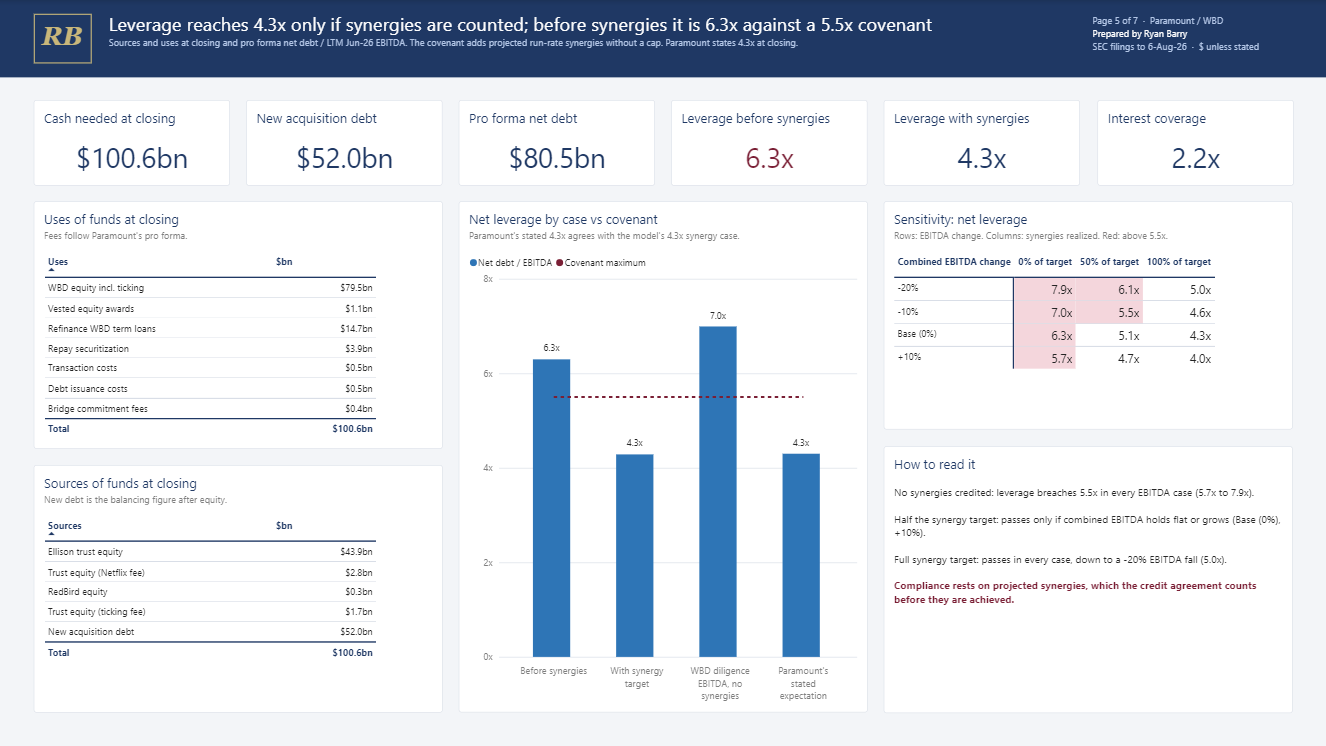
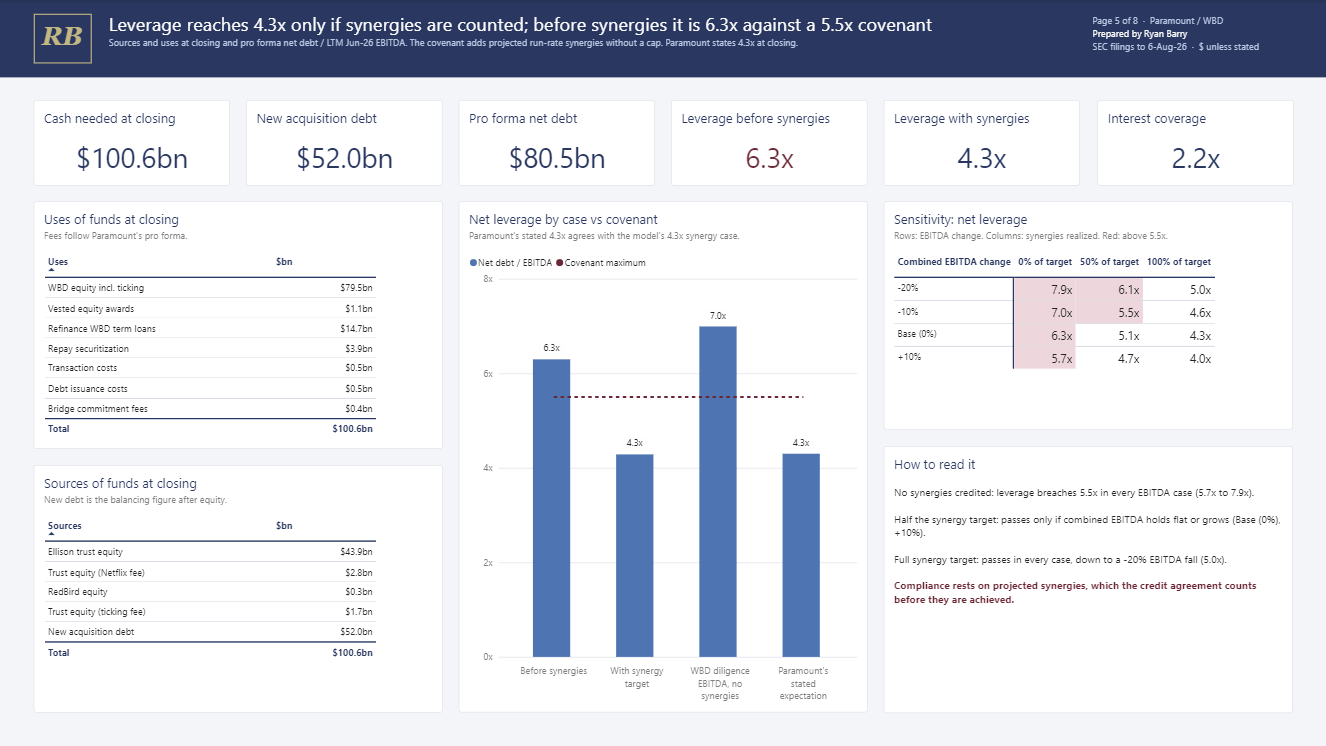
Paramount: post-close true-up, page 8 screenshot, updated databook counts

diff --git a/src/data/projects.ts b/src/data/projects.ts
@@ -19,6 +19,21 @@ export interface Project {
   download?: { href: string; label: string };
   github?: string;
   note?: string;
+  discrepancies?: Discrepancies;
+  sources?: { group: string; items: { cite: string; use: string; links?: { label: string; href: string }[] }[] }[];
+}
+
+export interface Discrepancies {
+  title: string;
+  intro: string;
+  table: {
+    caption: string;
+    head: string[];
+    rows: string[][];
+    foot: string[];
+  };
+  witnesses: { caption: string; items: { source: string; finding: string }[] };
+  items: { head: string; body: string }[];
 }
 
 export const projects: Project[] = [
@@ -60,8 +75,9 @@ export const projects: Project[] = [
     ],
     built: [
       'Alteryx workflow extracts 436 line items from both companies’ SEC filings and reconciles them in 60 checks.',
-      'Excel databook: 18 tabs, 882 formulas, 37 checks, all passing. Deal math, quality of earnings, net debt, purchase price allocation, leverage and the networks analysis, every number tagged to its filing.',
-      'Seven-page Power BI story, executive summary first.',
+      'Excel databook: 19 tabs, 1,166 formulas, 49 checks, all passing. Deal math, quality of earnings, net debt, purchase price allocation, leverage and the networks analysis, every number tagged to its filing.',
+      'Eight-page Power BI story, executive summary first.',
+      'After the deal closed on 6-Oct-26, a second Alteryx workflow and a new databook tab trued the model up to the closing filings: 11 of 11 tie-outs pass, net debt came within 2% of the model, and all three red flags still stand.',
       'One-page advisor memo to Paramount’s board; a build script checks every number in it against the databook.',
     ],
     tools: ['Alteryx', 'Excel', 'Power BI', 'Python', 'SEC EDGAR'],
@@ -71,12 +87,13 @@ export const projects: Project[] = [
       { src: '/projects/paramount/page2.png', caption: 'The deal: bidding history, bankers’ valuation ranges, equity value to enterprise value' },
       { src: '/projects/paramount/page5.png', caption: 'Can they afford it: sources and uses, leverage by case, covenant sensitivity' },
       { src: '/projects/paramount/page7.png', caption: 'Sell the networks? Keep vs. sell by date, break-even price' },
+      { src: '/projects/paramount/page8.png', caption: 'After closing: pre-closing estimates vs the closing filings' },
       { src: '/projects/paramount/page3.png', caption: 'What Paramount is buying' },
       { src: '/projects/paramount/page4.png', caption: 'Where the money goes' },
       { src: '/projects/paramount/page6.png', caption: 'Findings and basis of preparation' },
     ],
     download: { href: '/projects/paramount/Paramount_WBD_Advisor_Memo.pdf', label: 'Read the one-page advisor memo (PDF)' },
-    note: 'Public SEC filings through 6 August 2026. Synergies are Paramount’s stated $6bn target, a forecast that can’t be verified from public filings.',
+    note: 'Public SEC filings through 6 August 2026; closing filings through 13 October 2026. Synergies are Paramount’s stated $6bn target, a forecast that can’t be verified from public filings.',
   },
   {
     slug: 'hamilton',
@@ -131,5 +148,127 @@ export const projects: Project[] = [
     download: { href: '/projects/hamilton/Hamilton_Debt_Assumption_Report.pdf', label: 'Read the eight-schedule report (PDF)' },
     github: 'https://github.com/josephrbarry/hamilton-debt-assumption',
     note: 'Dollars shown in 1790 dollars; the report also shows 2025 dollars at 36.3x CPI.',
+    discrepancies: {
+      title: 'What didn’t add up',
+      intro:
+        'There was no dataset for this project. I transcribed every table from the original documents and footed it against the total the document prints before running any analysis. Most tables tied. One didn’t, and tracing why turned into half the project.',
+      table: {
+        caption:
+          'Enclosure D, Statement of Subscriptions, Treasury Department, 25 January 1792. Each row has to satisfy quota − subscribed = unsubscribed. Three cells don’t.',
+        head: ['State', 'Cell', 'As published', 'Reconciled', 'Difference'],
+        rows: [
+          ['North Carolina', 'Subscribed', '$1,166,355.57', '$1,666,355.57', '$500,000.00'],
+          ['Massachusetts', 'Subscribed', '$4,447,013.81', '$4,477,013.81', '$30,000.00'],
+          ['Maryland', 'Unsubscribed', '$500,744.60', '$500,774.60', '$30.00'],
+        ],
+        foot: ['Subscribed column', 'Total', '$17,798,186.21', '$18,328,186.21', 'Ties to printed total'],
+      },
+      witnesses: {
+        caption:
+          'To find where the errors came from, I compared four printings of the same table, cell by cell.',
+        items: [
+          { source: 'Childs & Swaine pamphlet, 1792 (via 2008 TCP transcription)', finding: 'Printed the year the statement was issued. The transcription shows Massachusetts as 4,177,013.81 ($300,000 low), South Carolina’s over-subscription as 634,573.52 ($5 low), and the unsubscribed total $2 off. Pending original page transcription.' },
+          { source: 'Seybert, Statistical Annals, 1818', finding: 'The most accurate printing. Its only slip is $60 in the Virginia line.' },
+          { source: 'American State Papers: Finance, 1832', finding: 'Where the $500,000, $30,000 and $30 errors first appear.' },
+          { source: 'Founders Online (National Archives)', finding: 'Copied the 1832 reprint, errors included. It’s the version most people will find online today.' },
+        ],
+      },
+      items: [
+        {
+          head: 'The Treasury was right.',
+          body: 'With those three cells corrected, all five columns foot to the totals the Treasury printed in 1792, to the penny. The arithmetic was sound; the reprints are what’s wrong. I found no published source that notes the errors.',
+        },
+        {
+          head: 'I got it wrong first.',
+          body: 'My first pass fixed the Massachusetts over-subscribed line instead of the subscribed line, and concluded the Treasury had made a $30,000 error. Comparing the four printings reversed that. I rewrote the finding and kept the correction in the project history.',
+        },
+        {
+          head: 'Unreadable scans, settled by footing.',
+          body: 'Three figures in the 1881 Treasury history of the national loans (New York, Delaware, South Carolina) were partly illegible. I used the digits that appear in both surviving scans and make the column foot exactly to the printed $18,271,786.47.',
+        },
+        {
+          head: 'Hamilton’s own rounding.',
+          body: 'The nine states in his January 1790 schedule sum to $21,501,206. He called it “about twenty-one millions and a half.” I recorded it as a tie within rounding rather than an error.',
+        },
+      ],
+    },
+    sources: [
+      {
+        group: 'Primary documents',
+        items: [
+          {
+            cite: 'Alexander Hamilton, Report Relative to a Provision for the Support of Public Credit, Schedule E, “Abstract of the Public Debt of the States,” 9 January 1790.',
+            use: 'What Hamilton knew: six state returns, three of his own estimates, four blanks.',
+            links: [{ label: 'Founders Online', href: 'https://founders.archives.gov/documents/Hamilton/01-06-02-0076-0002-0006' }],
+          },
+          {
+            cite: 'U.S. Congress, An Act making provision for the Debt of the United States (Funding Act), 4 August 1790, 1 Stat. 138, section 14.',
+            use: 'Each state’s quota, $21.5 million in total.',
+            links: [{ label: 'Statutes at Large (GovInfo)', href: 'https://www.govinfo.gov/content/pkg/STATUTE-1/pdf/STATUTE-1-Pg138.pdf' }],
+          },
+          {
+            cite: 'U.S. Census Bureau, Return of the Whole Number of Persons within the Several Districts of the United States (First Census), 1790.',
+            use: 'Total and enslaved population for each state. All thirteen checked against the Census Bureau publication.',
+            links: [{ label: 'Census Bureau', href: 'https://www.census.gov/library/publications/1793/dec/number-of-persons.html' }],
+          },
+          {
+            cite: 'Treasury Department, Enclosure D, “Statement of Subscriptions to the Loan payable in Certificates or Notes issued by the respective States,” 25 January 1792, with Hamilton’s Report on the Public Debt and Loans, 23 January 1792.',
+            use: 'What creditors actually turned in during the first subscription window. The table that didn’t foot.',
+            links: [{ label: 'Founders Online', href: 'https://founders.archives.gov/documents/Hamilton/01-10-02-0124-0005' }],
+          },
+          {
+            cite: 'Report of the Commissioners for Settling Accounts between the United States and the Individual States, to George Washington, 29 June 1793.',
+            use: 'The final accounting of which states were owed money for the war and which owed the Union.',
+            links: [{ label: 'Founders Online', href: 'https://founders.archives.gov/documents/Washington/05-13-02-0110' }],
+          },
+        ],
+      },
+      {
+        group: 'Printings compared for the 1792 table',
+        items: [
+          {
+            cite: 'U.S. Treasury Department, Report of the Secretary of the Treasury, on the Subject of the Public Debt. Presented to the House of Representatives, February 7th, 1792. Philadelphia: Childs and Swaine, 1792, p. 15 (Evans Early American Imprints, N19158).',
+            use: 'Witness 1.',
+            links: [{ label: 'Transcription (Text Creation Partnership)', href: 'https://github.com/textcreationpartnership/N19158' }],
+          },
+          {
+            cite: 'Adam Seybert, Statistical Annals of the United States of America, Philadelphia, 1818, p. 726.',
+            use: 'Witness 2. The most accurate of the four.',
+          },
+          {
+            cite: 'American State Papers: Finance, vol. 1, Gales & Seaton, Washington, 1832.',
+            use: 'Witness 3. Where the three errors first appear.',
+          },
+          {
+            cite: 'Founders Online, National Archives, transcription of Enclosure D.',
+            use: 'Witness 4. Carries the 1832 errors.',
+            links: [{ label: 'Founders Online', href: 'https://founders.archives.gov/documents/Hamilton/01-10-02-0124-0005' }],
+          },
+        ],
+      },
+      {
+        group: 'Treasury history and conversions',
+        items: [
+          {
+            cite: 'Rafael A. Bayley, History of the National Loans of the United States from July 4, 1776, to June 30, 1880, U.S. Treasury Department, 1881, p. 33.',
+            use: 'The final amount assumed for each state, $18,271,786.47 in total.',
+            links: [
+              { label: 'Scan 1 (Internet Archive)', href: 'https://archive.org/details/cu31924030228245' },
+              { label: 'Scan 2 (Internet Archive)', href: 'https://archive.org/details/nationalloansun00treagoog' },
+            ],
+          },
+          {
+            cite: 'MeasuringWorth, Purchasing Power of the U.S. Dollar and relative-share series.',
+            use: '1790 dollars to 2025 dollars at 36.3x CPI; the $21.5 million as a share of 1790 GDP.',
+            links: [{ label: 'MeasuringWorth', href: 'https://www.measuringworth.com/calculators/uscompare/' }],
+          },
+          {
+            cite: 'Federal Reserve Bank of Minneapolis, Consumer Price Index, 1800–.',
+            use: 'Cross-check on the inflation conversion.',
+            links: [{ label: 'Minneapolis Fed', href: 'https://www.minneapolisfed.org/about-us/monetary-policy/inflation-calculator/consumer-price-index-1800-' }],
+          },
+        ],
+      },
+    ],
   },
 ];
